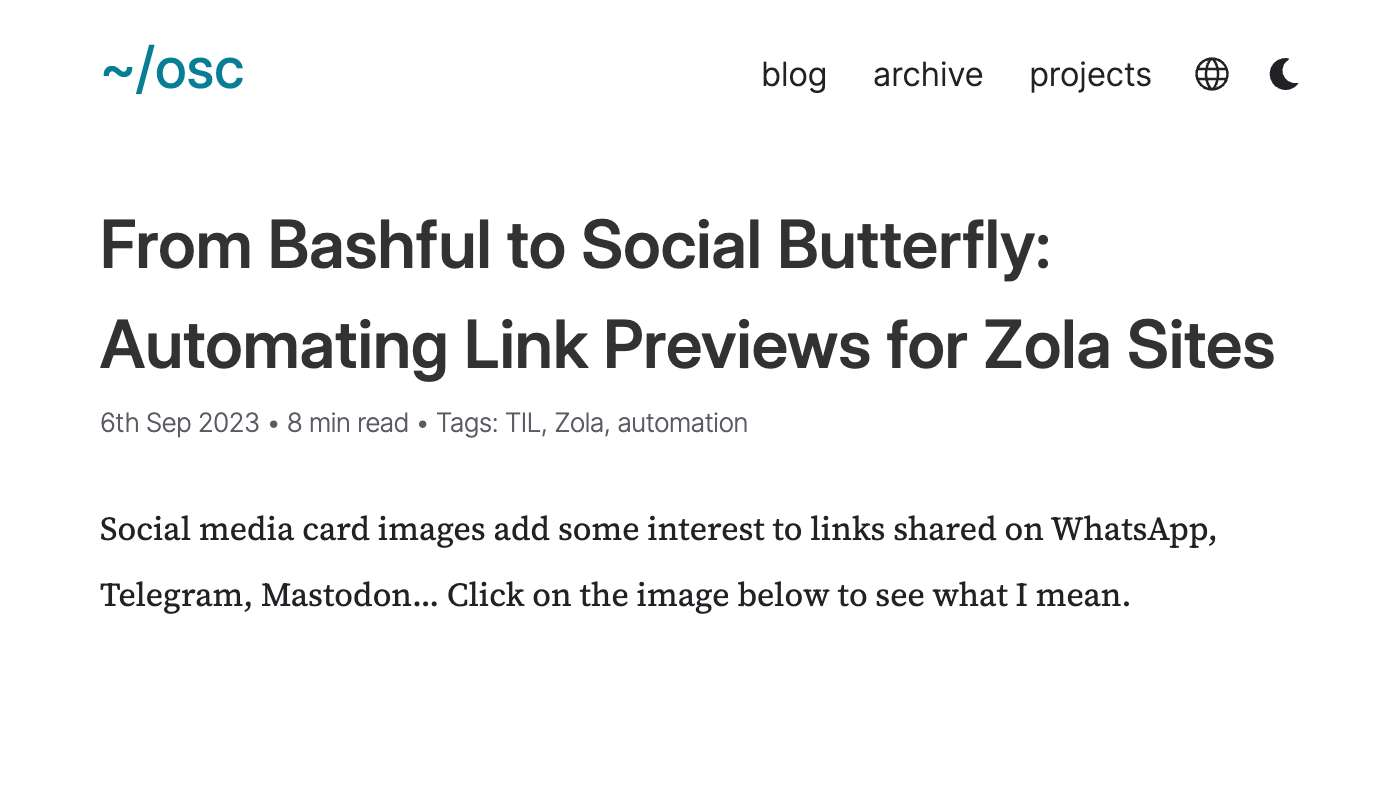
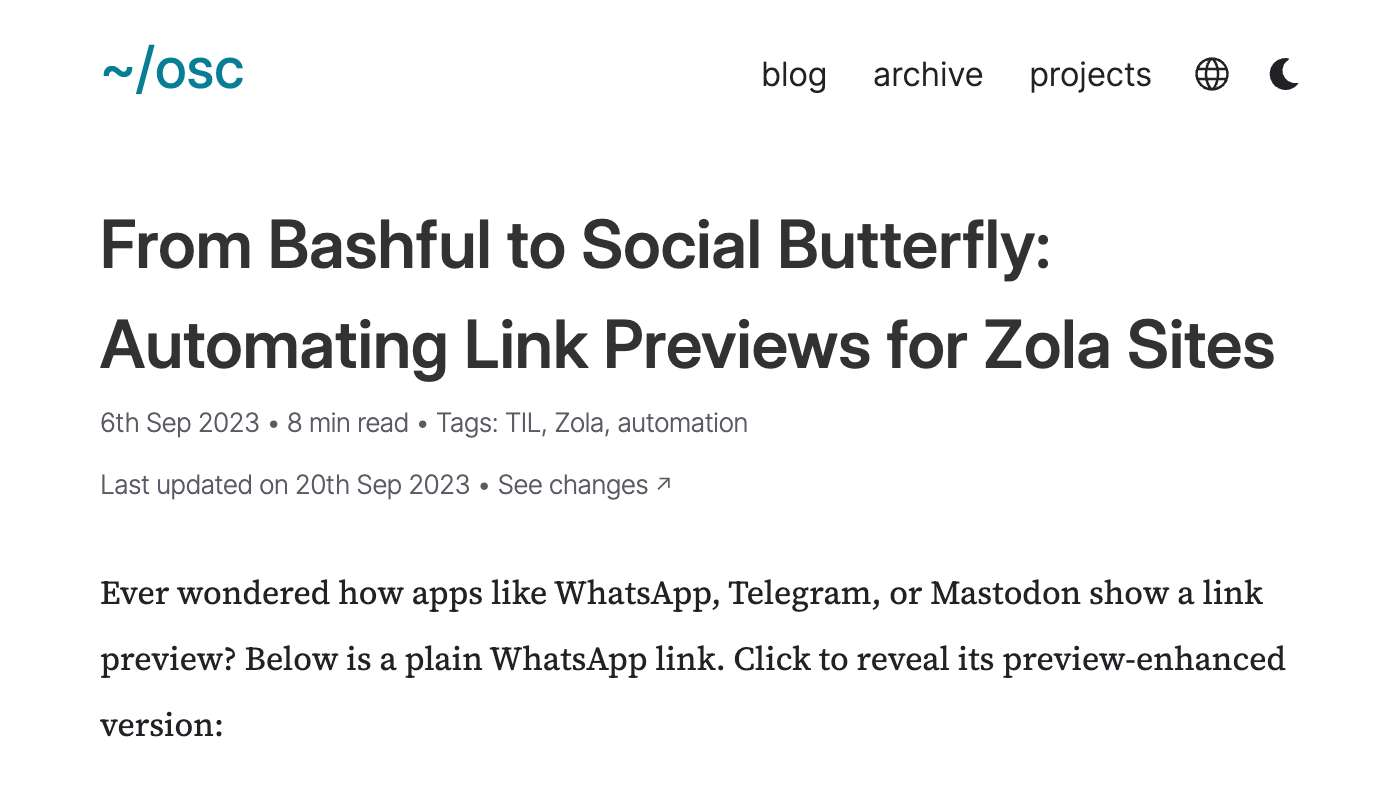
enhance intro following Juan's feedback

diff --git a/content/blog/automating-social-media-cards-zola.es.md b/content/blog/automating-social-media-cards-zola.es.md
@@ -1,6 +1,7 @@
 +++
 title = "De reservado a rey de las redes: automatizando las vistas previas de los enlaces con Zola"
 date = 2023-09-06
+updated = 2023-09-20
 description = "Con el objetivo de hacer los sitios web de Zola más compatibles con las redes sociales, he descifrado el código para automatizar la generación de las previsualizaciones de enlaces."
 
 [taxonomies]
@@ -12,9 +13,11 @@ footnote_backlinks = true
 social_media_card = "img/social_cards/es_blog_automating_social_media_cards_zola.jpg"
 +++
 
-Las miniaturas para redes sociales añaden un toque interesante a los enlaces compartidos en WhatsApp, Telegram, Mastodon… Haz clic en la imagen para ver a qué me refiero.
+¿Alguna vez te has preguntado cómo aplicaciones como WhatsApp, Telegram o Mastodon muestran una vista previa de un enlace? A continuación, encontrarás el pantallazo de un enlace sin vista previa compartido en WhatsApp. Haz clic en la imagen para ver cómo cambia al añadir la imagen:
 
 {{ image_toggler(default_src="img/without_social_media_card.webp", toggled_src="img/with_social_media_card.webp", default_alt="Enlace sin miniatura", toggled_alt="Enlace con miniatura") }}
+
+Mucho mejor, ¿no? Estas imágenes se obtienen de etiquetas HTML, concretamente `og:image` y `twitter:image`. Puedes asignar cualquier imagen a estas etiquetas.
 
 Mientras desarrollaba el tema de mi web —[tabi](https://github.com/welpo/tabi)—, me topé con [un artículo de Simon Wilson](https://til.simonwillison.net/shot-scraper/social-media-cards) que explica cómo utilizar su herramienta [`shot-scraper`](https://shot-scraper.datasette.io/en/stable/) para generar estas imágenes.
 

diff --git a/content/blog/automating-social-media-cards-zola.ca.md b/content/blog/automating-social-media-cards-zola.ca.md
@@ -1,6 +1,7 @@
 +++
 title = "De reservat a rei de les xarxes: automatitzant les vistes prèvies dels enllaços amb Zola"
 date = 2023-09-06
+updated = 2023-09-20
 description = "Amb l'objectiu de fer els llocs web de Zola més compatibles amb les xarxes socials, he desxifrat el codi per automatitzar la generació de les previsualitzacions d'enllaços."
 
 [taxonomies]
@@ -12,9 +13,11 @@ footnote_backlinks = true
 social_media_card = "img/social_cards/ca_blog_automating_social_media_cards_zola.jpg"
 +++
 
-Les miniatures per a xarxes socials afegeixen un toc interessant als enllaços compartits en WhatsApp, Telegram, Mastodon… Fes clic a la imatge per veure a què em refereixo.
+T'has preguntat alguna vegada com aplicacions com WhatsApp, Telegram o Mastodon mostren una vista prèvia d'un enllaç? A continuació, trobaràs la captura de pantalla d'un link compartit a WhatsApp sense vista prèvia. Fes clic a la imatge per veure com canvia en afegir la imatge:
 
 {{ image_toggler(default_src="img/without_social_media_card.webp", toggled_src="img/with_social_media_card.webp", default_alt="Enllaç sense miniatura", toggled_alt="Enllaç amb miniatura") }}
+
+Molt millor, oi? Aquestes imatges s'obtenen d'etiquetes HTML, concretament `og:image` i `twitter:image`. Pots assignar qualsevol imatge a aquestes etiquetes.
 
 Mentre desenvolupava el tema del meu lloc web —[tabi](https://github.com/welpo/tabi)—, em vaig topar amb [un article de Simon Wilson](https://til.simonwillison.net/shot-scraper/social-media-cards) que explica com utilitzar la seva eina [`shot-scraper`](https://shot-scraper.datasette.io/en/stable/) per generar aquestes imatges.
 

diff --git a/content/blog/automating-social-media-cards-zola.md b/content/blog/automating-social-media-cards-zola.md
@@ -1,6 +1,7 @@
 +++
 title = "From Bashful to Social Butterfly: Automating Link Previews for Zola Sites"
 date = 2023-09-06
+updated = 2023-09-20
 description = "In a quest to make Zola websites more social media-friendly, I've cracked the code for automating the creation of social media cards."
 
 [taxonomies]
@@ -12,9 +13,11 @@ footnote_backlinks = true
 social_media_card = "img/social_cards/blog_automating_social_media_cards_zola.jpg"
 +++
 
-Social media card images add some interest to links shared on WhatsApp, Telegram, Mastodon… Click on the image below to see what I mean.
+Ever wondered how apps like WhatsApp, Telegram, or Mastodon show a link preview? Below is a plain WhatsApp link. Click to reveal its preview-enhanced version:
 
 {{ image_toggler(default_src="img/without_social_media_card.webp", toggled_src="img/with_social_media_card.webp", default_alt="Sharing a link without social media cards", toggled_alt="Sharing a link with social media cards") }}
+
+Much better, no? These images, called **social media cards**, are retrieved from HTML tags, namely `og:image` and `twitter:image`. You can set them to any image you like.
 
 While working on this site's theme—[tabi](https://github.com/welpo/tabi)—I stumbled upon [a post by Simon Wilson](https://til.simonwillison.net/shot-scraper/social-media-cards) explaining how to use his tool [`shot-scraper`](https://shot-scraper.datasette.io/en/stable/) to generate these images.
 
